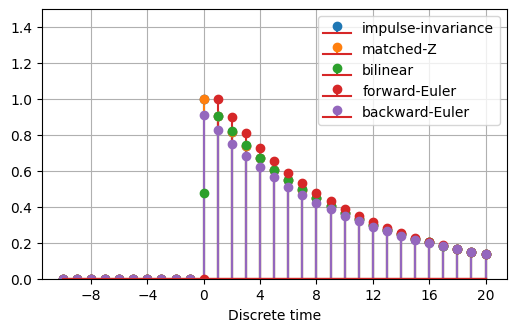
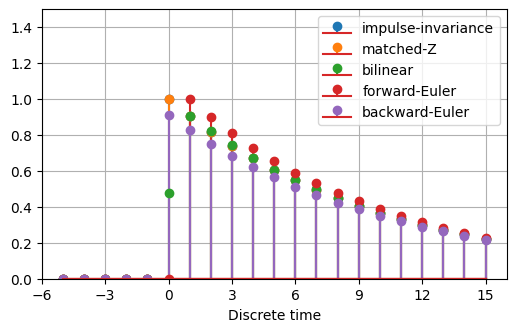
Tweak plot

diff --git a/doc/examples/discretetime/discretize1.py b/doc/examples/discretetime/discretize1.py
@@ -12,11 +12,11 @@ h5 = h(n, method='backward-euler').subs(dt, 0.1)
 
 fig, axes = subplots(1, figsize=(6, 3.5))
 
-h1.plot((-10, 20), axes=axes, label='impulse-invariance', color='C0')
-h2.plot((-10, 20), axes=axes, label='matched-Z', color='C1')
-h3.plot((-10, 20), axes=axes, label='bilinear', color='C2')
-h4.plot((-10, 20), axes=axes, label='forward-Euler', color='C3')
-h5.plot((-10, 20), axes=axes, label='backward-Euler', color='C4')
+h1.plot((-5, 15), axes=axes, label='impulse-invariance', color='C0')
+h2.plot((-5, 15), axes=axes, label='matched-Z', color='C1')
+h3.plot((-5, 15), axes=axes, label='bilinear', color='C2')
+h4.plot((-5, 15), axes=axes, label='forward-Euler', color='C3')
+h5.plot((-5, 15), axes=axes, label='backward-Euler', color='C4')
 axes.set_ylim(0, 1.5)
 
 axes.legend()
